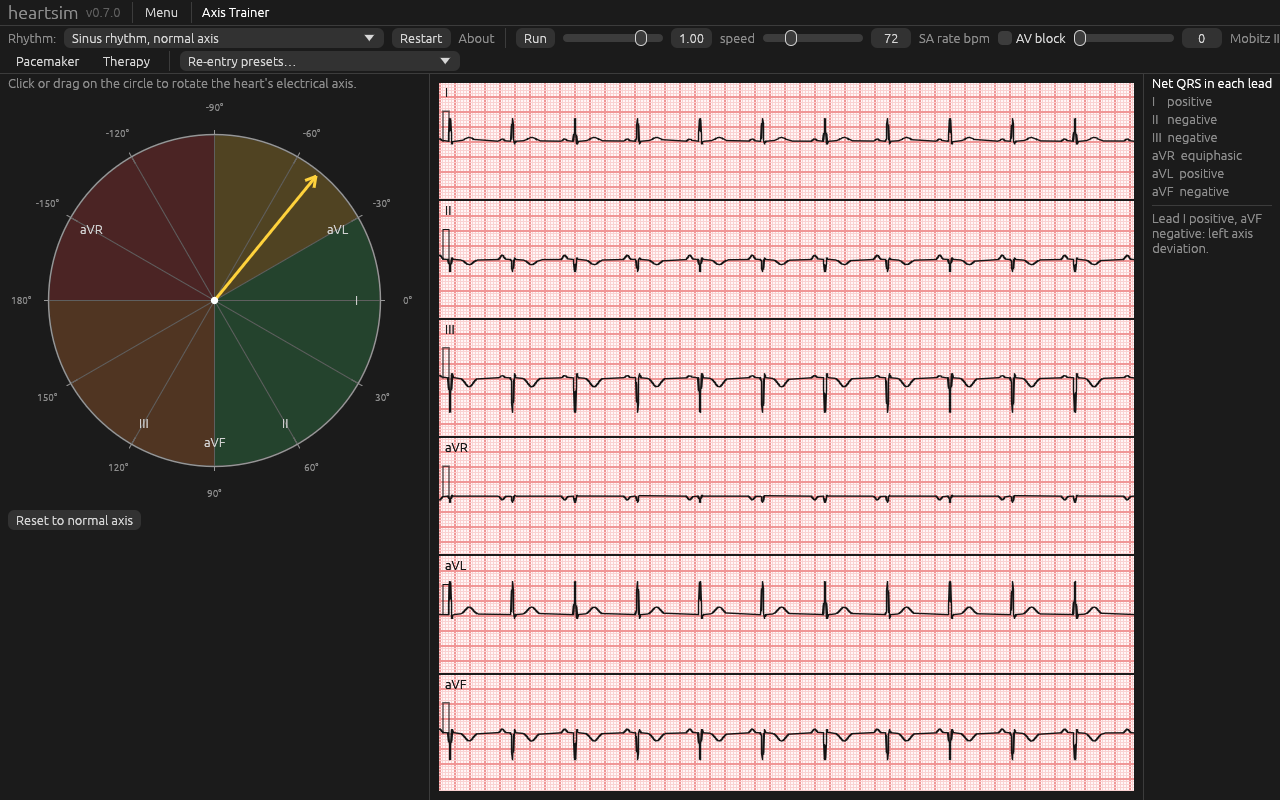
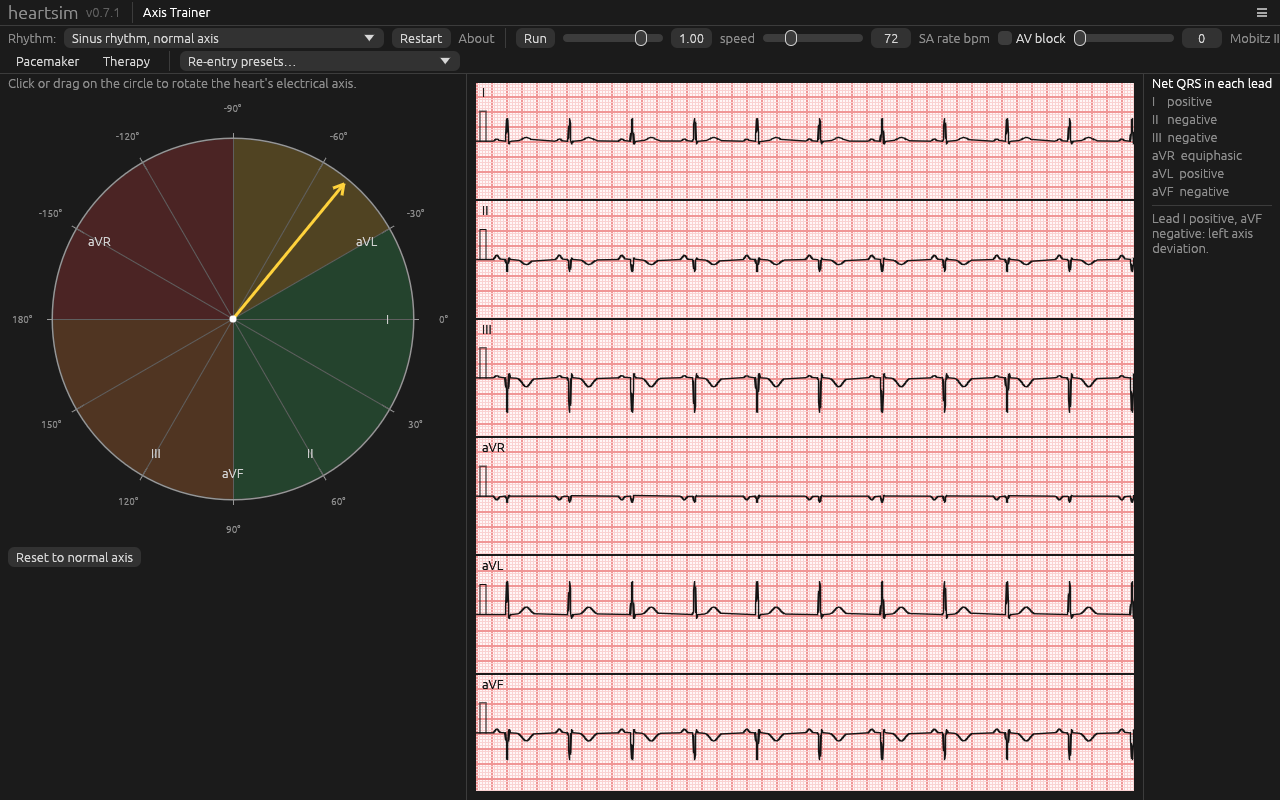
chore(release): bump version to 0.7.1

diff --git a/CHANGELOG.md b/CHANGELOG.md
@@ -4,6 +4,22 @@ All notable changes to heartsim are documented here. Format: Keep a Changelog; v
 
 ## [Unreleased]
 
+## [0.7.1] — 2026-11-07
+Patch release after the first run of an installer by a person: every package up to 0.7.0 lacked the `assets/` tree, so the
+installed program showed a placeholder sphere instead of the heart. Also the hamburger menu with the theme switch.
+
+### Fixed
+- The installers (MSI, NSIS, dmg, deb, AppImage) did not ship the `assets/` tree, so an installed heartsim showed the placeholder
+  sphere and an empty rhythm picker. The anatomy pack, scenarios, tutorials and cases are now packaged (next to the binary on
+  Windows, in `Contents/Resources` on macOS, in `usr/lib/heartsim` on Linux), the app also looks in those places, a red bar says
+  when nothing was found, and `heartsim --assets-dir` (checked by every installer smoke test) prints where the assets were found
+  or the paths that were tried.
+
+### Changed
+- The menu is a hamburger (☰) at the right end of the menu bar, with the open page's name on the left next to the version.
+  Its bottom entry, **Theme**, chooses system, light or dark; the choice is remembered with the other settings
+  (`theme` in the settings file, default `System`), and the high-contrast switch still applies on top of it.
+
 ## [0.7.0] — 2026-11-07
 Sixth tagged release, the follow-up to the first look at 0.6.0: the 3-D view opens on an oblique that shows the heart as a
 heart, the tab row gives way to a one-line menu bar with the version in view, and the desktop app tells you when a newer

diff --git a/README.md b/README.md
@@ -66,7 +66,7 @@ More screenshots: [LBBB with the heart-vector arrow, scrubbed](docs/images/simul
 
 ## Status
 
-Version 0.7.0 (2026-11-07). The work packages B01–B23 in [docs/briefs/](docs/briefs/) are implemented; [CHANGELOG.md](CHANGELOG.md)
+Version 0.7.1 (2026-11-07). The work packages B01–B23 in [docs/briefs/](docs/briefs/) are implemented; [CHANGELOG.md](CHANGELOG.md)
 lists what each release added and [docs/ROADMAP.md](docs/ROADMAP.md) the milestones. The program has so far been tested
 headless (software rendering, no display) and on GitHub's runners: nobody has yet used it on a real screen, and several
 physiology numbers are cited from memory. See [known limitations and open questions](docs/book/src/known-issues.md).

diff --git a/docs/book/src/dev/file-formats.md b/docs/book/src/dev/file-formats.md
@@ -32,7 +32,7 @@ heartsim_sinus_normal 12 500 5000
 heartsim_sinus_normal.dat 16 1000/mV 16 0 0 -1234 0 I
 …
 heartsim_sinus_normal.dat 16 1000/mV 16 0 3 812 0 V6
-# heartsim 0.7.0 - simulated ECG, not a patient recording
+# heartsim 0.7.1 - simulated ECG, not a patient recording
 # scenario: sinus_normal - Sinus rhythm, normal axis
 # start_ms: 2002
 # date: 2026-11-03
